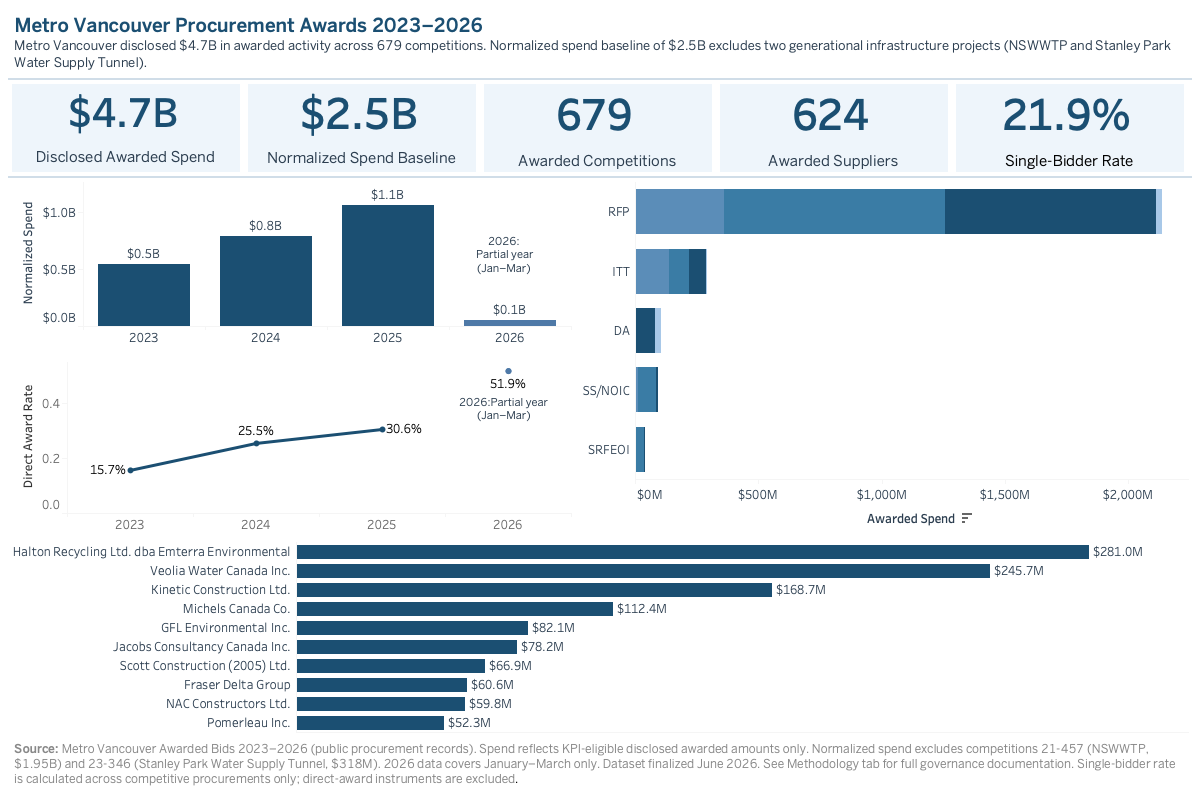
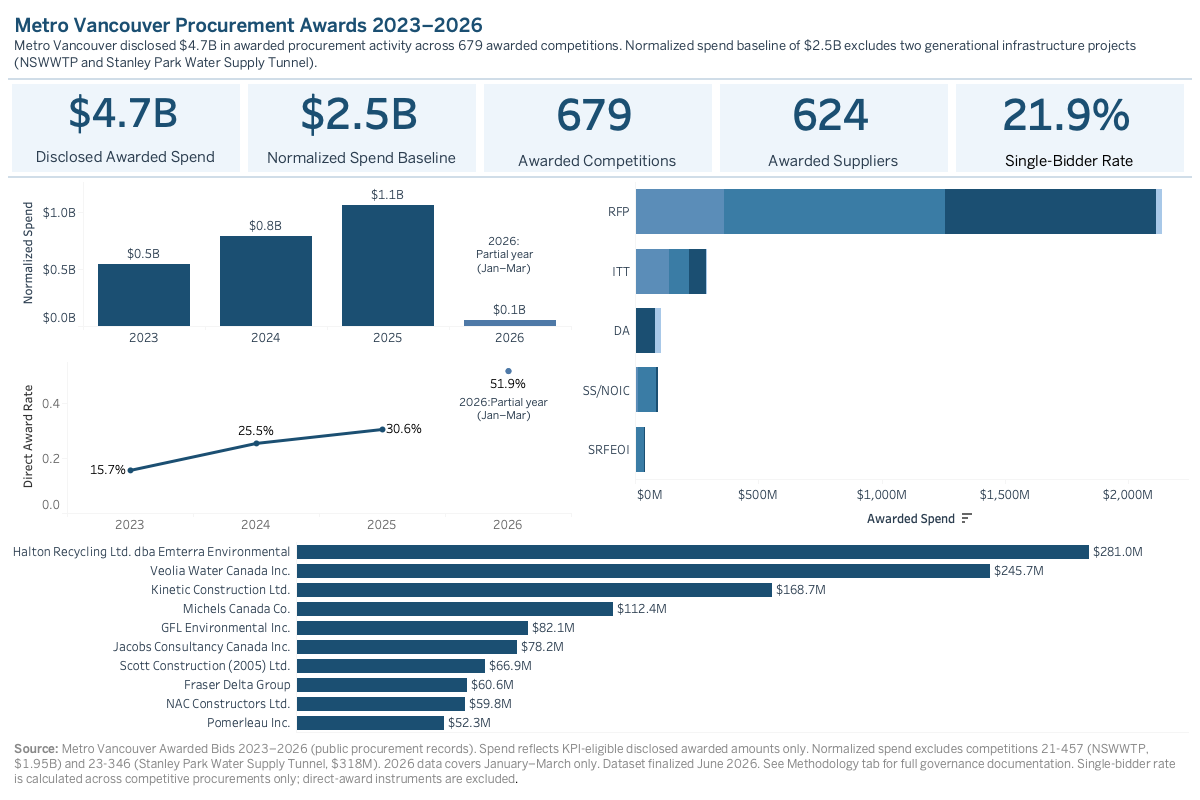
docs: align dashboard governance wording

Changed region(s): [[0.0, 0.0312, 0.9867, 0.0938]]

diff --git a/docs/dashboard_guide.md b/docs/dashboard_guide.md
@@ -71,8 +71,8 @@ Dashboards 2 and 3.
 - **679** — Distinct awarded competitions with at least one awarded vendor.
 - **624** — Normalized supplier entities receiving at least one disclosed award.
 - **21.9%** — Single-Bidder Rate: the share of competitive procurements (excluding
-  direct-award instruments) with exactly one recorded vendor response across the study
-  period.
+  direct-award instruments) with exactly one recorded vendor response across the source
+  reporting period.
 
 **Normalized spend by source reporting year.** A bar chart shows normalized
 KPI-eligible disclosed awarded spend by source reporting year. Normalized spend
@@ -139,7 +139,7 @@ full-year trend signal.
 
 ---
 
-## Dashboard 2 — Vendor Concentration & Supplier Dependence
+## Dashboard 2 — Supplier Concentration & Recurrence
 
 ### Analytical Purpose
 
@@ -348,10 +348,10 @@ suppression audit log.
   `data/clean/step5h_suppression_audit_log.csv`.
 - *KDQI-002 — Competition Number Format Variation: 22-167 / 22-0167* `Open` —
   Two competition numbers share description prefix and overlapping vendor pool;
-  definitive relationship unconfirmed from source documents. Treated as distinct
-  events. No published KPI has been adjusted for this item because the relationship
-  remains unconfirmed. This is an open investigation item, not a confirmed data
-  quality defect.
+  definitive relationship unconfirmed from source documents. Treated as distinct 
+  competition numbers pending further verification. No disclosed awarded spend figures
+  are restated pending resolution. This is an open investigation item, not a confirmed
+  data quality defect.
 
 **Limitations summary.** Key limitations surfaced on the dashboard:
 

diff --git a/docs/data_dictionary.md b/docs/data_dictionary.md
@@ -1,11 +1,13 @@
 # Metro Vancouver Procurement Analytics
 ## Data Dictionary
 
+**Version:** 1.1
+**Last updated:** 2026-06-22
+**Owner:** Kimia Nazokkar
+
 **Dataset:** `data/clean/step5h_deduped_procurement_awards.csv`
 **Rows:** 2,133 vendor-competition records
 **Reporting period:** 2023 through March 2026 (2026 is a partial year: January–March only)
-**Last updated:** 2026-06-22
-**Owner:** Kimia Nazokkar
 
 ---
 
@@ -95,7 +97,7 @@ The award date as published in the source PDF. Format varies by year: ISO format
 | Source | Metro Vancouver Awarded Bids Register PDFs |
 | Pipeline stage introduced | Step 1 extraction |
 
-The vendor name extracted from the source PDF and retained for source traceability. Minor extraction-time cleanup may be applied where required, including whitespace or line-break normalization and source-verified correction of PDF parsing or encoding artifacts. Casing, punctuation, legal suffixes, and abbreviation styles are otherwise preserved from the source. The same supplier entity may appear under different name variants across competitions or years; use `vendor_name_display` for the curated canonical form used in Tableau.
+The vendor name extracted from the source PDF and retained for source traceability. Minor extraction-time cleanup may be applied where required, including whitespace or line-break normalization and source-verified correction of PDF parsing or encoding artifacts. Casing, punctuation, legal suffixes, and abbreviation styles are otherwise preserved from the source. The same supplier entity may appear under different name variants across competitions or years; use `vendor_name_display` for the curated display name used in Tableau.
 
 ---
 

diff --git a/docs/fact_inventory.md b/docs/fact_inventory.md
@@ -460,7 +460,7 @@ These are approved narrative framings derived from the verified facts above. The
 
 ### N-01 — Portfolio framing statement
 
-> Metro Vancouver disclosed $4.7B in awarded procurement activity across 679 awarded competitions covering 2023 through March 2026. This analysis examines spending patterns, supplier concentration, competition structure, and market participation across a major regional public utility.
+> Metro Vancouver disclosed $4.7B in awarded procurement activity across 679 awarded competitions covering 2023 through March 2026. This analysis examines spending patterns, supplier concentration, competition structure, and recorded vendor participation across a major regional public utility.
 
 **Status:** APPROVED. Uses F-06, F-04, F-02.
 
@@ -476,7 +476,7 @@ These are approved narrative framings derived from the verified facts above. The
 
 ### N-03 — Single-bidder rate finding
 
-> Across competitive procurements, 21.9% of competitions received only one vendor response during the study period.
+> Across competitive procurements, 21.9% of competitions received only one vendor response during the source reporting period.
 
 **Status:** APPROVED for overall rate. Uses F-16.
 